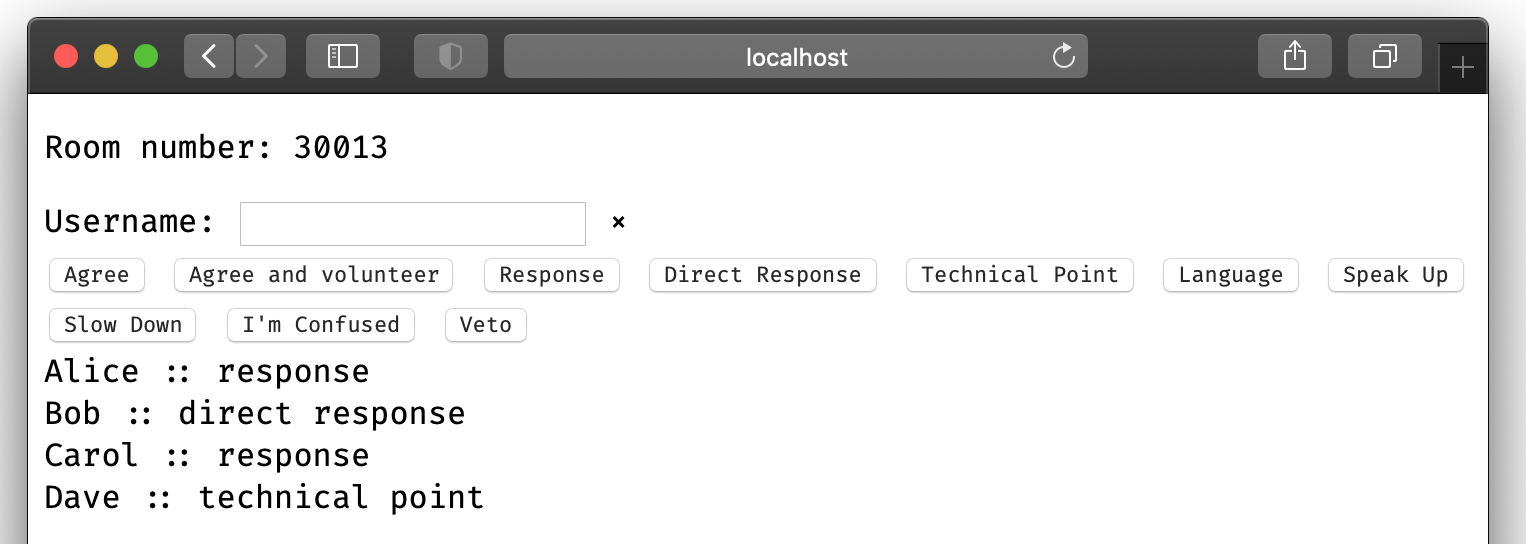
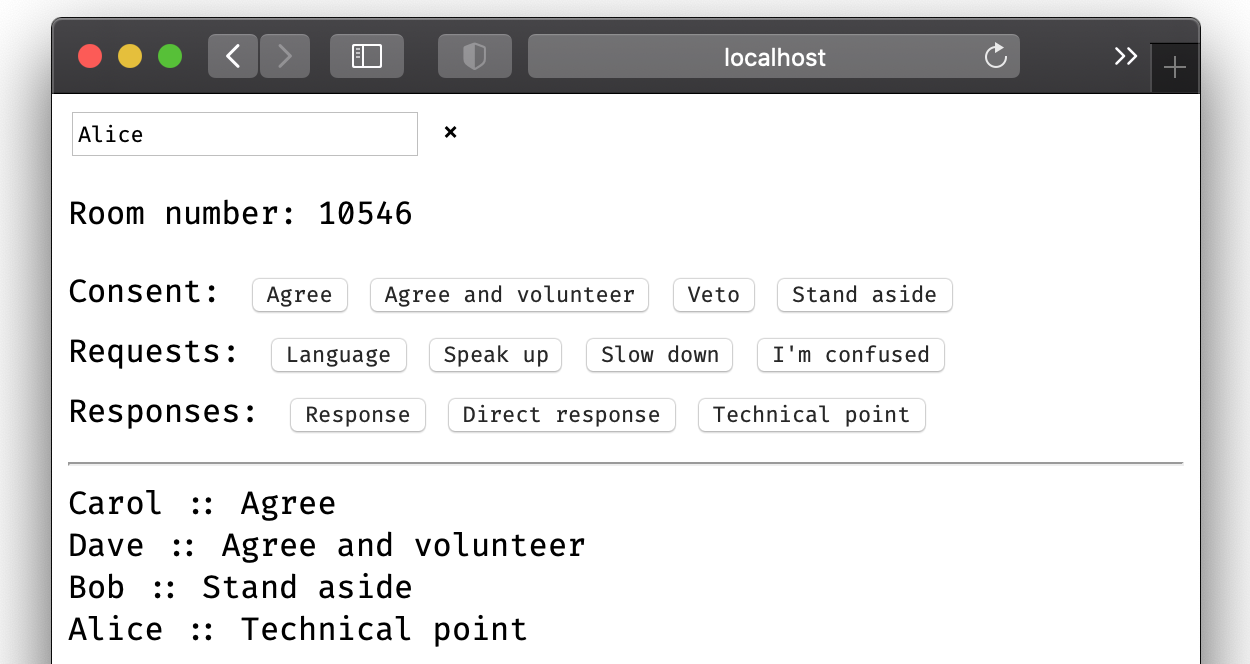
feat: group the buttons by type

Changed region(s): [[0.0, 0.0, 0.9984, 1.0], [0.5616, 0.5938, 0.7488, 0.6562]]

diff --git a/room.html b/room.html
@@ -17,10 +17,14 @@
 <div id="app">
     <input v-model="user" placeholder="username"> <span v-on:click="deleteUserMood(user)">×</span>
     <p>Room number: <span id="roomnumber">{{ room }}</span></p>
-    <button v-for="(mood, index) in moods" v-on:click="sendMood(mood)" v-bind:disabled="!isReady">{{ mood }}</button>
+    <div v-for="(value, key) in moods" class="moodgroup">
+        {{key}}:
+        <button v-for="(mood, index) in moods[key]" v-on:click="sendMood(mood)" v-bind:disabled="!isReady" class="mood-button">{{ mood }}</button>
+    </div>
+    <hr>
     <div class="mood-list">
         <article class="mood" v-for="(item, index) in userMoods" v-on:click="deleteUserMood(item.username)"><span
-                id="mooduser">{{item.username}}</span> :: <span id="mood">{{item.mood}}</span></article>
+                class="mood__username">{{item.username}}</span> :: <span class="mood__mood">{{item.mood}}</span></article>
     </div>
 </div>
 <div class="footer">

diff --git a/assets/room.js b/assets/room.js
@@ -3,18 +3,26 @@ const app = new Vue({
     data: {
         user: '',
         room: undefined,
-        moods: [
-            "Agree",
-            "Agree and volunteer",
-            "Response",
-            "Direct response",
-            "Technical point",
-            "Language",
-            "Speak up",
-            "Slow down",
-            "I'm confused",
-            "Veto"
-        ],
+        moods: {
+            "Consent": [
+                "Agree",
+                "Agree and volunteer",
+                "Veto",
+                "Stand aside",
+            ],
+            "Requests": [
+                "Language",
+                "Speak up",
+                "Slow down",
+                "I'm confused",
+
+            ],
+            "Responses": [
+                "Response",
+                "Direct response",
+                "Technical point",
+            ]
+        },
         userMoods: []
     },
     computed: {
